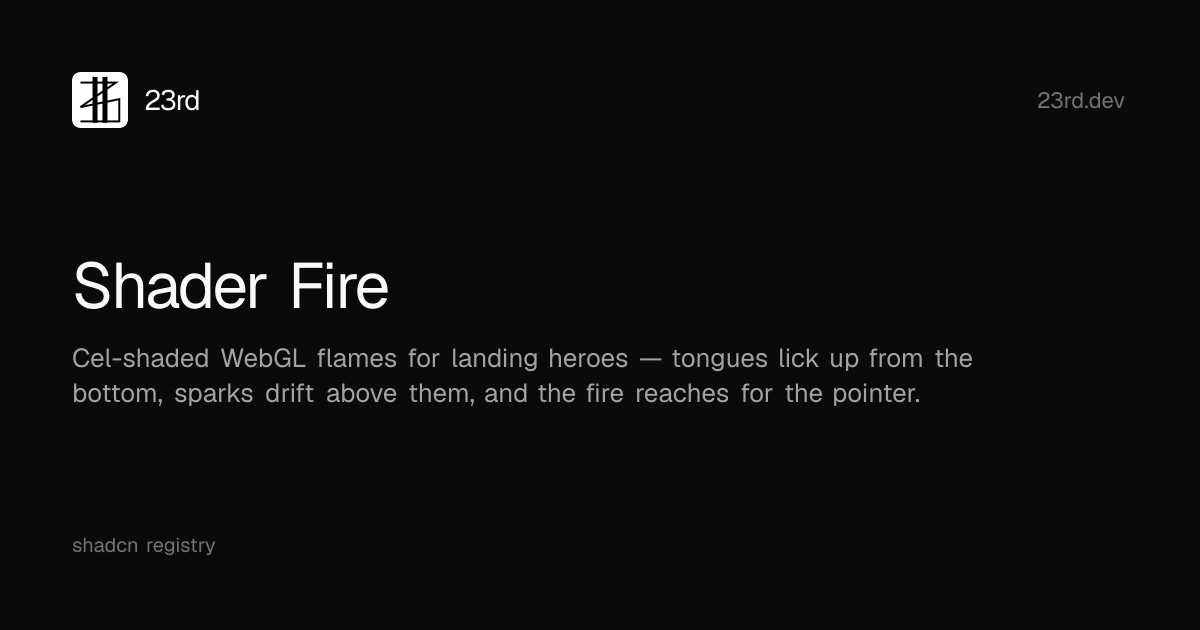
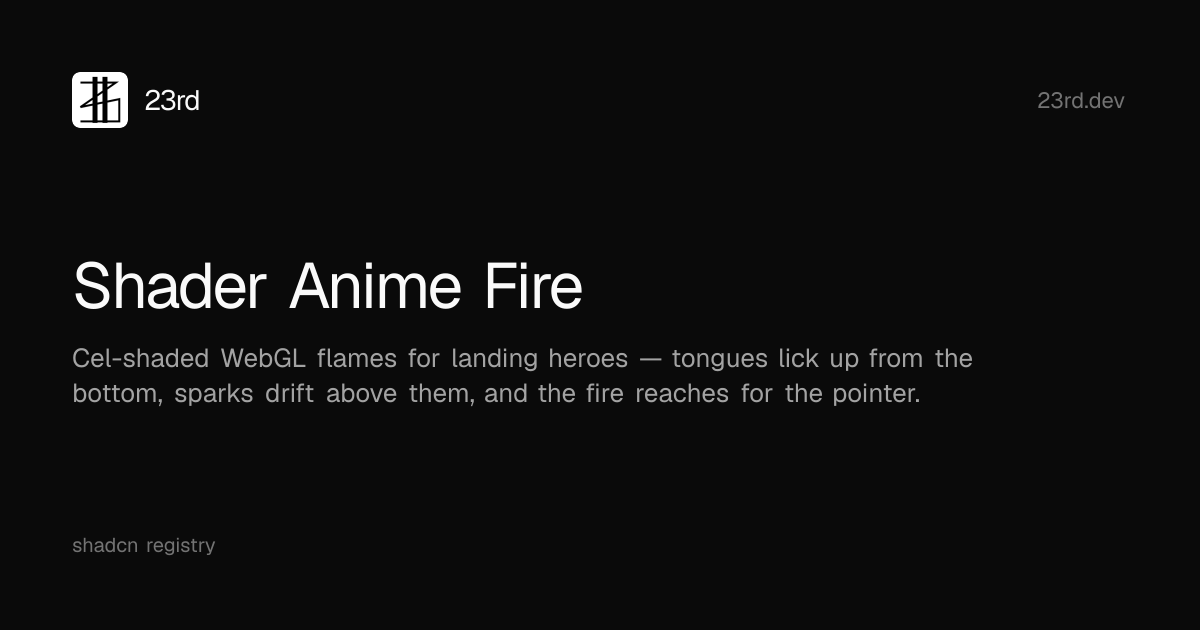
Finish renaming Shader Fire to Shader Anime Fire.
The previous two commits only carried the file moves and part of the
content; this brings the wrappers, demo, registry manifests, landing
feed, docs links and the permanent redirect from the old docs URL
along, and drops Dithered 404's comparison to this fire.

Changed region(s): [[0.2467, 0.3921, 0.4933, 0.5127]]

diff --git a/registry/shader-anime-fire/shader-anime-fire.tsx b/registry/shader-anime-fire/shader-anime-fire.tsx
@@ -5,7 +5,7 @@ import { useEffect, useRef, useState } from "react"
 import { cn } from "@/lib/utils"
 
 import {
-  createShaderFire,
+  createShaderAnimeFire,
   DARK_FALLBACK,
   DEFAULT_EMBERS,
   DEFAULT_HEIGHT,
@@ -13,9 +13,9 @@ import {
   DEFAULT_SPEED,
   LIGHT_FALLBACK,
   resolveDark,
-  type ShaderFireInstance,
-  type ShaderFireOptions,
-} from "./shader-fire-vanilla"
+  type ShaderAnimeFireInstance,
+  type ShaderAnimeFireOptions,
+} from "./shader-anime-fire-vanilla"
 
 export {
   DARK_COLORS,
@@ -26,14 +26,14 @@ export {
   DEFAULT_SPEED,
   LIGHT_COLORS,
   LIGHT_FALLBACK,
-} from "./shader-fire-vanilla"
+} from "./shader-anime-fire-vanilla"
 export type {
-  ShaderFireInstance,
-  ShaderFireOptions,
-  ShaderFireTheme,
-} from "./shader-fire-vanilla"
+  ShaderAnimeFireInstance,
+  ShaderAnimeFireOptions,
+  ShaderAnimeFireTheme,
+} from "./shader-anime-fire-vanilla"
 
-export type ShaderFireProps = Omit<ShaderFireOptions, "onThemeChange"> & {
+export type ShaderAnimeFireProps = Omit<ShaderAnimeFireOptions, "onThemeChange"> & {
   className?: string
 }
 
@@ -41,7 +41,7 @@ export type ShaderFireProps = Omit<ShaderFireOptions, "onThemeChange"> & {
  * Cel-shaded flames licking up from the bottom edge, with sparks drifting
  * above them. Heat reaches for the pointer. Theme-aware.
  */
-export function ShaderFire({
+export function ShaderAnimeFire({
   className,
   colors,
   speed = DEFAULT_SPEED,
@@ -52,9 +52,9 @@ export function ShaderFire({
   dither = false,
   pixelSize = 1,
   theme = "auto",
-}: ShaderFireProps) {
+}: ShaderAnimeFireProps) {
   const canvasRef = useRef<HTMLCanvasElement>(null)
-  const instanceRef = useRef<ShaderFireInstance | null>(null)
+  const instanceRef = useRef<ShaderAnimeFireInstance | null>(null)
   const [isDark, setIsDark] = useState(false)
 
   useEffect(() => {
@@ -76,7 +76,7 @@ export function ShaderFire({
   useEffect(() => {
     const canvas = canvasRef.current
     if (!canvas) return
-    instanceRef.current = createShaderFire(canvas, {
+    instanceRef.current = createShaderAnimeFire(canvas, {
       colors,
       speed,
       intensity,
@@ -125,7 +125,7 @@ export function ShaderFire({
 
   return (
     <div
-      data-slot="shader-fire"
+      data-slot="shader-anime-fire"
       aria-hidden
       className={cn(
         "pointer-events-none absolute inset-0 overflow-hidden rounded-[inherit]",

diff --git a/registry/shader-anime-fire/shader-anime-fire.svelte b/registry/shader-anime-fire/shader-anime-fire.svelte
@@ -4,7 +4,7 @@
 <script lang="ts">
   import { onMount } from "svelte"
   import {
-    createShaderFire,
+    createShaderAnimeFire,
     DARK_FALLBACK,
     DEFAULT_EMBERS,
     DEFAULT_HEIGHT,
@@ -12,15 +12,15 @@
     DEFAULT_SPEED,
     LIGHT_FALLBACK,
     resolveDark,
-    type ShaderFireInstance,
-    type ShaderFireOptions,
-  } from "./shader-fire-vanilla"
+    type ShaderAnimeFireInstance,
+    type ShaderAnimeFireOptions,
+  } from "./shader-anime-fire-vanilla"
 
   function cn(...parts: Array<string | false | null | undefined>) {
     return parts.filter(Boolean).join(" ")
   }
 
-  interface Props extends Omit<ShaderFireOptions, "onThemeChange"> {
+  interface Props extends Omit<ShaderAnimeFireOptions, "onThemeChange"> {
     class?: string
   }
 
@@ -39,7 +39,7 @@
 
   let canvas: HTMLCanvasElement | undefined = $state()
   let isDark = $state(false)
-  let instance: ShaderFireInstance | null = null
+  let instance: ShaderAnimeFireInstance | null = null
 
   onMount(() => {
     const sync = () => {
@@ -60,7 +60,7 @@
         mq.removeEventListener("change", sync)
       }
     }
-    instance = createShaderFire(canvas, {
+    instance = createShaderAnimeFire(canvas, {
       colors,
       speed,
       intensity,
@@ -104,7 +104,7 @@
 </script>
 
 <div
-  data-slot="shader-fire"
+  data-slot="shader-anime-fire"
   aria-hidden="true"
   class={cn("pointer-events-none absolute inset-0 overflow-hidden rounded-[inherit]", className)}
   style="background-color: {fallback.backgroundColor}; background-image: {fallback.backgroundImage};"

diff --git a/registry/shader-anime-fire/shader-anime-fire-demo.tsx b/registry/shader-anime-fire/shader-anime-fire-demo.tsx
@@ -19,8 +19,8 @@ import {
   DEFAULT_INTENSITY,
   DEFAULT_SPEED,
   LIGHT_COLORS,
-  ShaderFire,
-} from "@/registry/shader-fire/shader-fire"
+  ShaderAnimeFire,
+} from "@/registry/shader-anime-fire/shader-anime-fire"
 
 function norm(hex: string) {
   return hex.trim().toUpperCase()
@@ -36,7 +36,7 @@ function isStockPalette(colors: string[]) {
   return colorsEqual(colors, LIGHT_COLORS) || colorsEqual(colors, DARK_COLORS)
 }
 
-export function ShaderFireDemo() {
+export function ShaderAnimeFireDemo() {
   const theme = useHydratedTheme()
   const palette = theme === "dark" ? DARK_COLORS : LIGHT_COLORS
 
@@ -75,7 +75,7 @@ export function ShaderFireDemo() {
         stageClassName="min-h-0 overflow-hidden p-0"
       >
         <div className="relative h-[56svh] w-full overflow-hidden rounded-[inherit] bg-background">
-          <ShaderFire
+          <ShaderAnimeFire
             className="absolute inset-0"
             speed={props.speed}
             intensity={props.intensity}
@@ -122,7 +122,7 @@ export function ShaderFireDemo() {
       <ComponentControls
         hasChanges={hasChanges}
         onReset={resetProps}
-        component="ShaderFire"
+        component="ShaderAnimeFire"
         snippetProps={{
           speed: props.speed === DEFAULT_SPEED ? undefined : props.speed,
           intensity:

diff --git a/components/monitor-feeds.tsx b/components/monitor-feeds.tsx
@@ -42,8 +42,8 @@ const PhosphorScore = feed(() =>
 const RadiantLines = feed(() =>
   import("@/registry/radiant-lines/radiant-lines").then((m) => m.RadiantLines)
 )
-const ShaderFire = feed(() =>
-  import("@/registry/shader-fire/shader-fire").then((m) => m.ShaderFire)
+const ShaderAnimeFire = feed(() =>
+  import("@/registry/shader-anime-fire/shader-anime-fire").then((m) => m.ShaderAnimeFire)
 )
 const ShaderGradient = feed(() =>
   import("@/registry/shader-gradient/shader-gradient").then(
@@ -71,7 +71,7 @@ const FEEDS: Record<string, () => ReactNode> = {
   "logo-burst": () => <LogoBurst />,
   "phosphor-score": () => <PhosphorScore />,
   "radiant-lines": () => <RadiantLines />,
-  "shader-fire": () => <ShaderFire className="absolute inset-0" />,
+  "shader-anime-fire": () => <ShaderAnimeFire className="absolute inset-0" />,
   "shader-gradient": () => <ShaderGradient className="absolute inset-0" />,
   "shader-sky": () => <ShaderSky className="absolute inset-0" />,
 }

diff --git a/components/component-controls.tsx b/components/component-controls.tsx
@@ -98,7 +98,7 @@ export type ComponentControlsProps = {
   hasChanges?: boolean
   onReset?: () => void
   className?: string
-  /** Component tag for the copy snippet, e.g. `"ShaderFire"` */
+  /** Component tag for the copy snippet, e.g. `"ShaderAnimeFire"` */
   component?: string
   /** Props included in the copied JSX. `undefined` values are omitted. */
   snippetProps?: Record<string, unknown>

diff --git a/registry/dithered-404/dithered-404.tsx b/registry/dithered-404/dithered-404.tsx
@@ -24,7 +24,7 @@ export type Dithered404Props = Dithered404Options & {
 /**
  * Bayer-pixel 404 section — a fireball cursor scorches and burns
  * the glyph into embers and smoke, then the type reforms.
- * `dither={false}` is a soft realistic fire, same idea as Shader Fire.
+ * `dither={false}` is a soft realistic fire.
  */
 export function Dithered404({
   className,

diff --git a/registry/dithered-404/dithered-404-vanilla.ts b/registry/dithered-404/dithered-404-vanilla.ts
@@ -480,7 +480,7 @@ function drawFireball(
 /**
  * Bayer-pixel 404 section — a fireball cursor scorches and burns
  * the glyph into embers and smoke, then the type reforms.
- * `dither={false}` is a soft realistic fire, same idea as Shader Fire.
+ * `dither={false}` is a soft realistic fire.
  */
 export function createDithered404(
   wrap: HTMLElement,

diff --git a/README.md b/README.md
@@ -93,7 +93,7 @@ npx skills add radiumcoders/23rd.dev --skill 23rd -g
 | [Logo Burst](https://23rd.dev/docs/components/logo-burst)                 | `@23rd/logo-burst`         | Hair-line tentacles explode from the center, then breathe — light and dark         |
 | [Phosphor Score](https://23rd.dev/docs/components/phosphor-score)         | `@23rd/phosphor-score`     | Vertical CRT sheet music — notes fall, bloom at the playhead, then exit in a flare |
 | [Radiant Lines](https://23rd.dev/docs/components/radiant-lines)           | `@23rd/radiant-lines`      | Hyperspace starfield background; warp speed driven by scroll                       |
-| [Shader Fire](https://23rd.dev/docs/components/shader-fire)               | `@23rd/shader-fire`        | Cel-shaded flames and sparks rising from the bottom of a landing hero             |
+| [Shader Anime Fire](https://23rd.dev/docs/components/shader-anime-fire)               | `@23rd/shader-anime-fire`        | Cel-shaded flames and sparks rising from the bottom of a landing hero             |
 | [Shader Gradient](https://23rd.dev/docs/components/shader-gradient)       | `@23rd/shader-gradient`    | Quiet WebGL wash behind landing heroes, empty states, and marketing sections       |
 | [Shader Sky](https://23rd.dev/docs/components/shader-sky)                 | `@23rd/shader-sky`         | Clear blue or rain behind a hero — drifting clouds, optional window-glass film     |
 | [Stretchy Footer](https://23rd.dev/docs/components/stretchy-footer)       | `@23rd/stretchy-footer`    | Dia-style rubber overscroll; aurora stretches past the bottom, then snaps back     |
